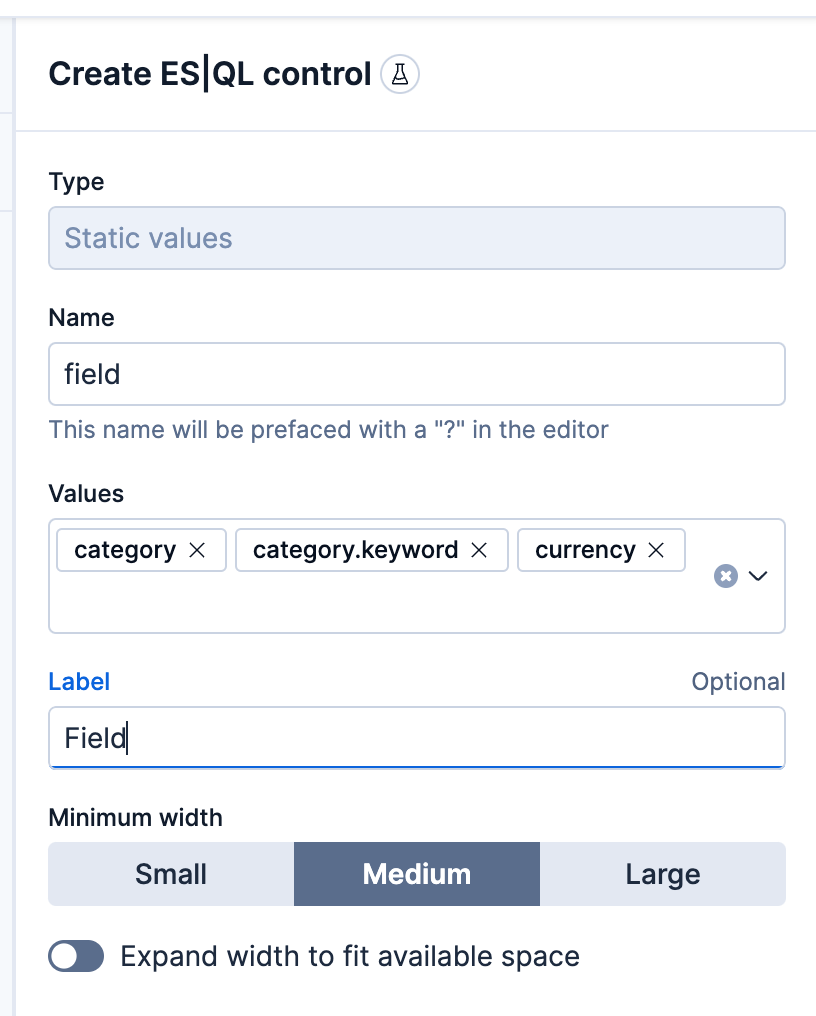
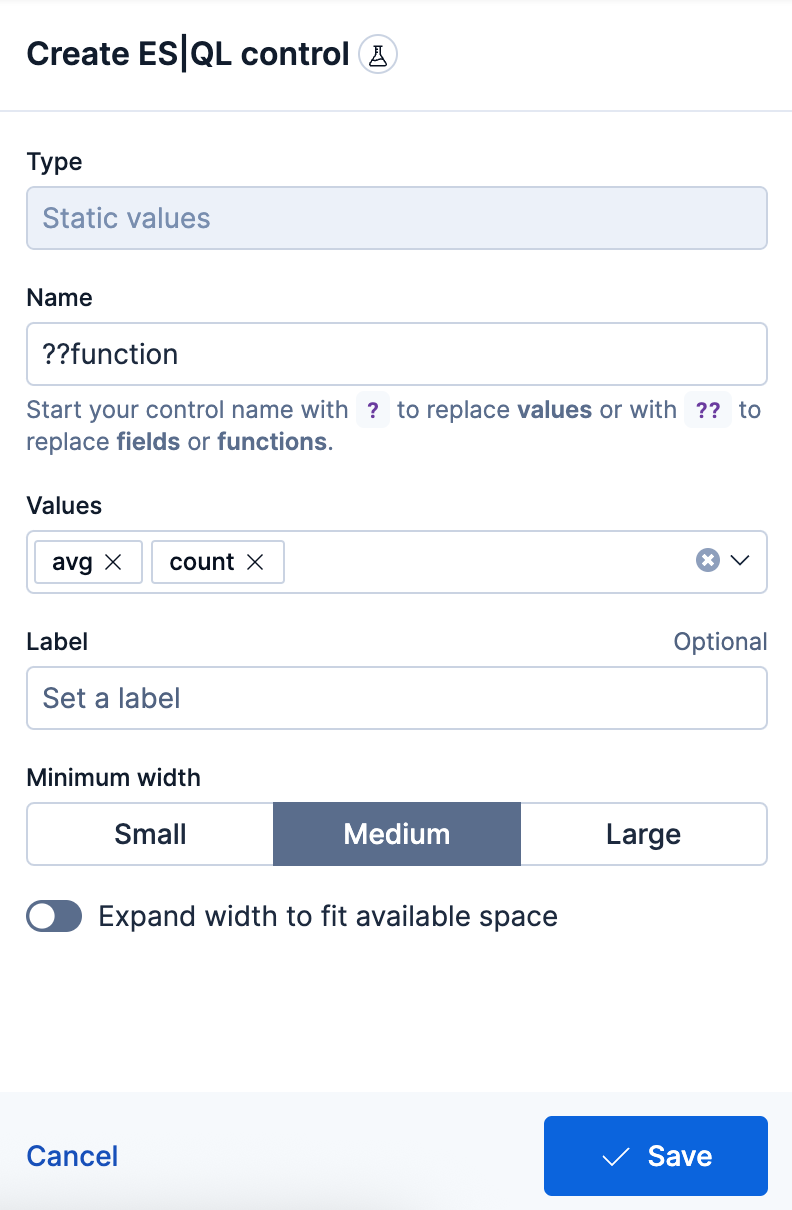
ES|QL dashboard controls in 9.1 (#1917)
This PR documents 9.1 changes made to ES|QL controls in dashboards, and
also makes a few small improvements to existing content on that page
(like removing useless screenshots and using accessibility-friendly
terms like select instead of click)

Closes: https://github.com/elastic/docs-content/issues/1679

---------

Changed region(s): [[0.0, 0.0, 0.9697, 1.0], [0.9394, 0.3051, 0.9697, 0.3661], [0.8788, 0.3051, 0.9091, 0.3661]]

diff --git a/explore-analyze/dashboards/add-controls.md b/explore-analyze/dashboards/add-controls.md
@@ -23,7 +23,7 @@ There are three types of controls:
   ![Range slider control for the `hour_of_day` field with a range of `9` to `17` selected](/explore-analyze/images/kibana-dashboard_controlsRangeSlider_8.3.0.png "title =50%")
 
 * [**Time slider**](#add-time-slider-controls) — Adds a time range slider that allows to filter the data within a specified range of time, advance the time range backward and forward by a unit that you can define, and animate your change in data over the specified time range.
-  For example, you are using the **[Logs] Web Traffic** dashboard from the sample web logs data, and the global time filter is **Last 7 days**. When you add the time slider, you can click the previous and next buttons to advance the time range backward or forward, and click the play button to watch how the data changes over the last 7 days.
+  For example, you are using the **[Logs] Web Traffic** dashboard from the sample web logs data, and the global time filter is **Last 7 days**. When you add the time slider, you can select the previous and next buttons to advance the time range backward or forward, and select the play button to watch how the data changes over the last 7 days.
   ![Time slider control for the the Last 7 days](/explore-analyze/images/dashboard_timeslidercontrol_8.17.0.gif)
 
 
@@ -34,8 +34,6 @@ To add interactive Options list and Range slider controls, create the controls, 
 
 1. Open or create a new dashboard.
 2. In **Edit** mode, select **Controls** > **Add control** in the dashboard toolbar.
-   ![Controls button in the toolbar with the Add Control option selected](/explore-analyze/images/kibana-dashboard-add-control-8.15.0.png "title =60%")
-
 3. On the **Create control** flyout, from the **Data view** dropdown, select the data view that contains the field you want to use for the **Control**.
 4. In the **Field** list, select the field you want to filter on.
 5. Under **Control type**, select whether the control should be an **Options list** or a **Range slider**.
@@ -68,7 +66,7 @@ To add interactive Options list and Range slider controls, create the controls, 
 
     * For Range sliders, set the step size. The step size determines the number of steps of the slider. The smaller the step size is, the more steps there is in the slider.
 
-8. Click **Save and close**. The control can now be used.
+8. Select **Save and close**. The control can now be used.
 9. Consider the position of the control if you have several controls active on the dashboard. Controls are applied from left to right, which can change the options available depending on their position when the [Chain controls](#configure-controls-settings) setting is enabled.
 10. Save the dashboard.
 
@@ -79,78 +77,57 @@ You can add one interactive time slider control to a dashboard.
 
 1. Open or create a new dashboard.
 2. In **Edit** mode, select **Controls** > **Add time slider control**.
-   ![Controls button in the toolbar with the Add a time slider option selected](/explore-analyze/images/kibana-dashboard-add-time-slider-control-8.15.0.png "title =50%")
-
 3. The time slider control uses the time range from the global time filter. To change the time range in the time slider control, [change the global time filter](../query-filter/filtering.md).
 4. Save the dashboard. The control can now be used.
 
 
-## Configure the controls settings [configure-controls-settings]
-
-Several settings that apply to all controls of the same dashboard are available.
-
-1. In **Edit** mode, select **Controls** > **Settings**.
-   ![Controls button in the toolbar with the Settings option selected](/explore-analyze/images/kibana-dashboard-controls-settings-8.15.0.png "title =60%")
-
-2. On the **Control settings** flyout, configure the following settings:
-
-    * **Label position** — Specify where the control label appears.
-    * **Filtering** settings:
-
-        * **Apply global filters to controls** — Define whether controls should ignore or apply any filter specified in the main filter bar of the dashboard.
-        * **Apply global time range to controls** — Define whether controls should ignore or apply the main time range specified for the dashboard. Note that [time slider controls](#add-time-slider-controls) rely on the global time range and don’t work properly when this option is disabled.
-
-    * **Selections** settings:
-
-        * **Validate user selections** — When selected, any selected option that results in no data is ignored.
-        * **Chain controls** — When selected, controls are applied sequentially from left to right, and line by line. Any selected options in one control narrows the available options in the next control.
-        * **Apply selections automatically** — The dashboard is updated dynamically when options are selected in controls. When this option is disabled, users first need to **Apply** their control selection before they are applied to the dashboard.
-
-    * To remove all controls from the dashboard, click **Delete all**.
-
-3. Click **Save and close** to apply the changes.
-
-
-## Edit Options list and Range slider control settings [edit-controls]
-
-Change the settings for the Options list and Range slider controls.
-
-1. Hover over the control you want to edit, then click ![The Edit control icon that opens the Edit control flyout](/explore-analyze/images/kibana-dashboard_controlsEditControl_8.3.0.png "").
-2. On the **Edit control** flyout, change the options, then click **Save and close**.
-
-## Add controls from your ES|QL visualization's query [add-esql-control]
+## Add {{esql}} controls [add-esql-control]
 ```{applies_to}
 stack: preview
 serverless: preview
 ```
 
-You can bind controls to your ES|QL visualizations in dashboards. When creating an ES|QL visualization, the autocomplete suggestions
-prompt control insertion for field values, field names, function configuration, and function names. This enables controls that only
-apply to a specific panel, and exposes visualization configuration such as date histogram interval controls to dashboard users.
+You can bind controls to your {{esql}} visualizations in dashboards. When creating an {{esql}} visualization, the autocomplete suggestions prompt control insertion for field values, field names, function configuration, and function names. {{esql}} controls act as variables in your {{esql}} visualization queries.
+
+This enables controls that only apply to specific panels in your dashboards, and exposes visualization configuration such as date histogram interval controls to dashboard users.
 
 :::{note}
-Currently, only **Options lists** with static values are supported for ES|QL-based controls.
+Only **Options lists** are supported for {{esql}}-based controls. Options can be:
+- values or fields that can be static or defined by a query
+- functions {applies_to}`stack: ga 9.1`
 :::
 
-1. While editing your ES|QL visualization's query, the autocomplete menu suggests adding a control.
+1. Use one of the following options to start creating an {{esql}} control:
+   - **From the dashboard Controls menu**: In **Edit** mode, select **Controls** > **Add {{esql}} control** in the dashboard toolbar. {applies_to}`stack: ga 9.1`
+   - **From your {{esql}} visualization's query**: While editing your {{esql}} visualization's query, the autocomplete menu suggests adding a control when relevant or when typing `?` in the query.
 
    ![ESQL query prompting to add a control](/explore-analyze/images/esql-visualization-control-suggestion.png)
 
 2. A menu opens to let you configure the control. This is where you can specify:
 
-    * The name of the control. That is the name that will appear in your ES|QL query, prefixed with a `?` symbol.
-    * Values available to select for users with this control. You can add multiple values from suggested fields, or type in custom values.
+    * The type of the control. 
+      * For controls with **Static values**, you select the options available in the controls by entering them manually or by using a dropdown listing available values. 
+      * For controls with **Values from a query**, you write an {{esql}} query to populate the list of options.
+    * The name of the control. This name is used to reference the control in {{esql}} queries. 
+      * Start the name with `?` if you want the options to be simple static values.
+      * Start the name with `??` if you want the options of the control to be fields or functions. {applies_to}`stack: ga 9.1`
+    * Values available to select for users with this control. You can add multiple values from suggested fields, or type in custom values. If you selected **Values from a query**, you must instead write an {{esql}} query at this step.
     * The label of the control. This is the label displayed for users viewing the dashboard for that control.
     * The width of the control.
 
     ![ESQL control settings](/explore-analyze/images/esql-visualization-control-settings.png "title =50%")
 
-3. Save the control. The panel closes and the control's name is inserted into your query.
+3. Save the control. 
+
+The panel closes and the control is added to the dashboard.
+If you added it by starting from a query, the control is directly inserted in that query and you can continue editing it.
+
+You can then insert it in any other {{esql}} visualization queries by typing the control's name.
 
 
 **Examples**
 
-* Integrate filtering into your ES|QL experience
+* Integrate filtering into your {{esql}} experience
 
   ```esql
   | WHERE field == ?value
@@ -174,12 +151,48 @@ Currently, only **Options lists** with static values are supported for ES|QL-bas
   | STATS metric = ?function
   ```
 
-![Editing ES|QL controls from a dashboard](https://images.contentstack.io/v3/assets/bltefdd0b53724fa2ce/blte42dfaa404bfc2d6/67d2e31e2e4dc59da190d78f/dashboard-esql-controls.gif)
+![Editing {{esql}} controls from a dashboard](https://images.contentstack.io/v3/assets/bltefdd0b53724fa2ce/blte42dfaa404bfc2d6/67d2e31e2e4dc59da190d78f/dashboard-esql-controls.gif)
 
 
-## Remove controls [remove-controls]
+## Configure the controls settings [configure-controls-settings]
 
-Remove controls from your dashboard.
+Several settings that apply to all controls of the same dashboard are available.
 
-1. Hover over the control you want to remove, then click ![The Remove control icon that removes the control from the dashboard](/explore-analyze/images/kibana-dashboard_controlsRemoveControl_8.3.0.png "").
-2. On the **Delete control?** window, click **Delete**.
+1. In **Edit** mode, select **Controls** > **Settings**.
+2. On the **Control settings** flyout, configure the following settings:
+
+    * **Label position** — Specify where the control label appears.
+    * **Filtering** settings:
+
+        * **Apply global filters to controls** — Define whether controls should ignore or apply any filter specified in the main filter bar of the dashboard.
+        * **Apply global time range to controls** — Define whether controls should ignore or apply the main time range specified for the dashboard. Note that [time slider controls](#add-time-slider-controls) rely on the global time range and don’t work properly when this option is disabled.
+
+    * **Selections** settings:
+
+        * **Validate user selections** — When selected, any selected option that results in no data is ignored.
+        * **Chain controls** — When selected, controls are applied sequentially from left to right, and line by line. Any selected options in one control narrows the available options in the next control.
+        * **Apply selections automatically** — The dashboard is updated dynamically when options are selected in controls. When this option is disabled, users first need to **Apply** their control selection before they are applied to the dashboard.
+
+    * To remove all controls from the dashboard, select **Delete all**.
+
+3. Select **Save and close** to apply the changes.
+
+
+## Edit Options list and Range slider control settings [edit-controls]
+
+Change the settings for Options list and Range slider controls.
+
+1. Hover over the control you want to edit, then select ![The Edit control icon that opens the Edit control flyout](/explore-analyze/images/kibana-dashboard_controlsEditControl_8.3.0.png "").
+2. In the **Edit control** flyout, change the options, then select **Save and close**.
+
+
+## Delete controls [remove-controls]
+
+Delete controls from your dashboard.
+
+1. Hover over the control you want to delete, then select ![The Remove control icon that removes the control from the dashboard](/explore-analyze/images/kibana-dashboard_controlsRemoveControl_8.3.0.png "").
+2. In the **Delete control?** window, select **Delete**.
+
+:::{note}
+If you delete an {{esql}} control that's used in an {{esql}} visualization, the visualization will break. You must edit the visualization query and remove or update the control reference.
+:::
